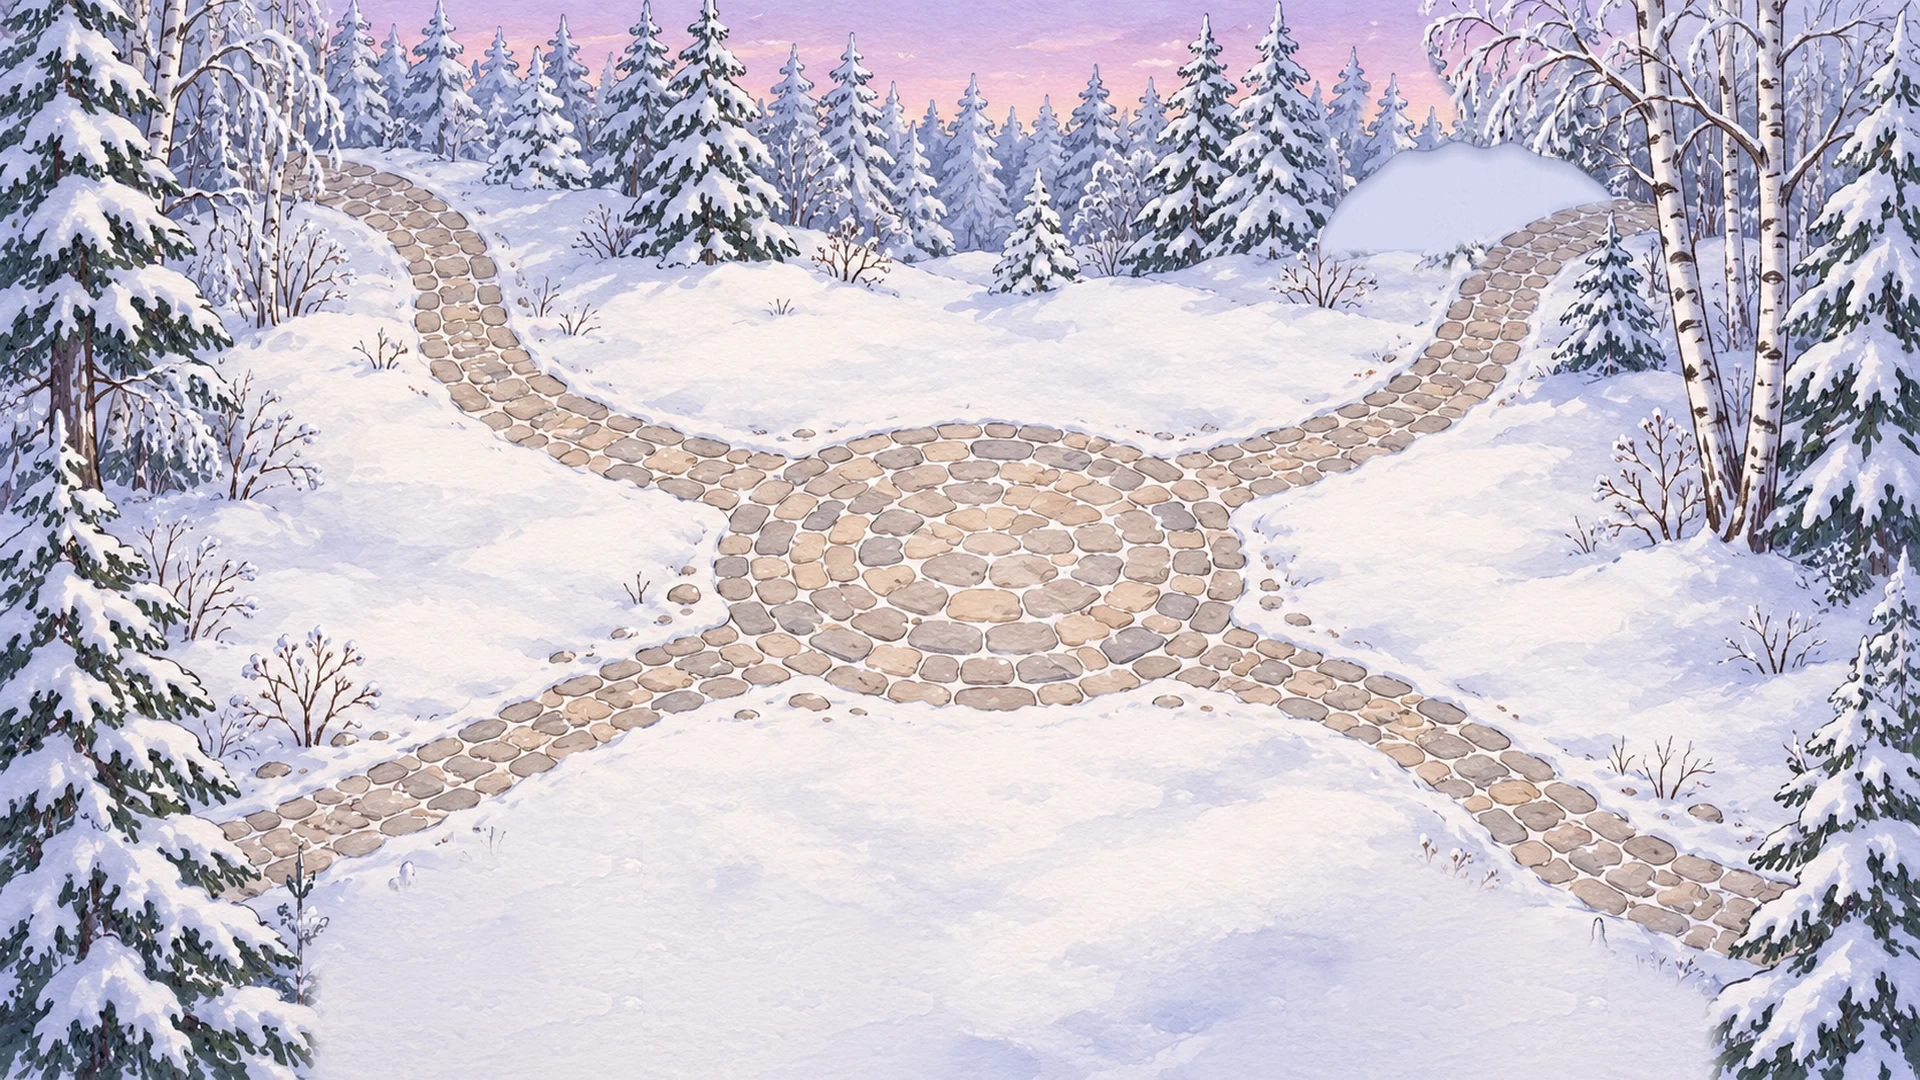
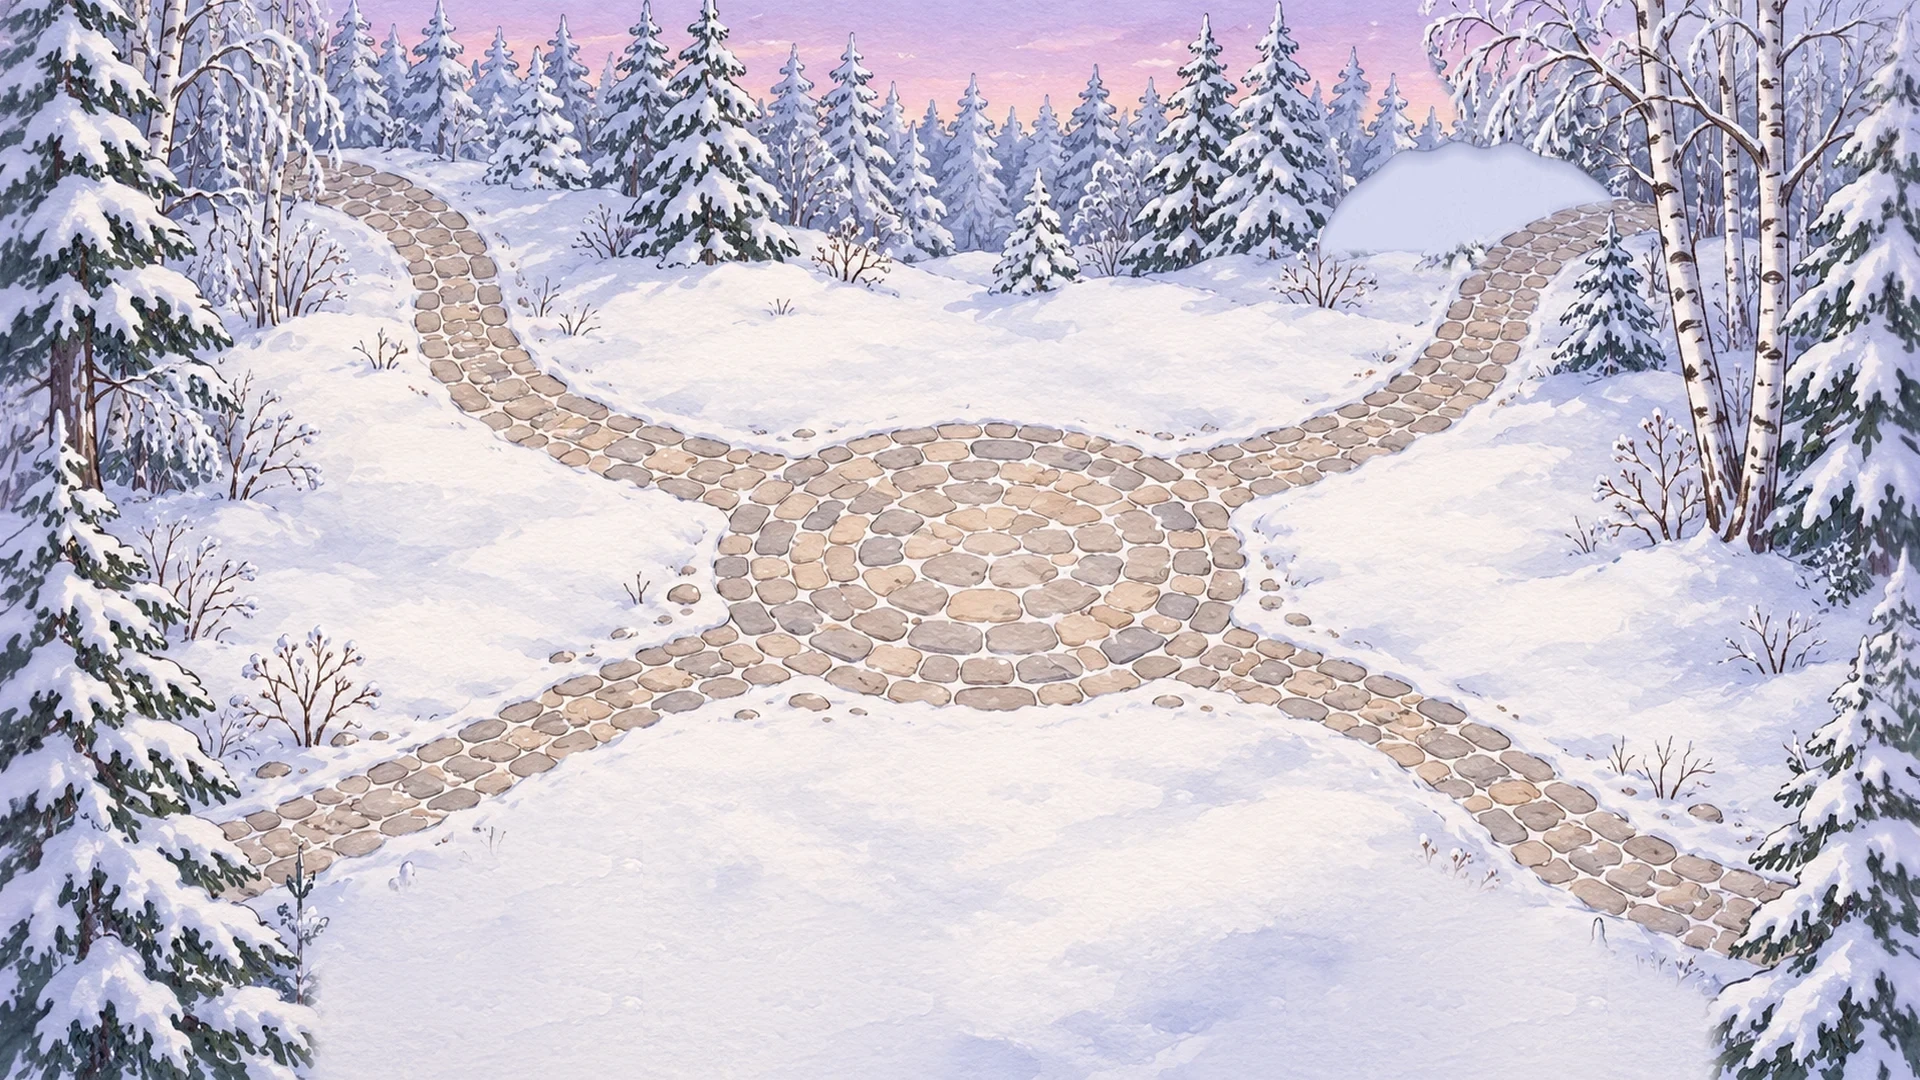
Platus ekranas: šonuose tikras miško tęsinys vietoj veidrodžio
fonas-platus.webp (2560x1080): šonai iš Gemini pratęsto fono, vidurys originalas, siūlė sulieta 70 px.
viewport-fit=cover, kad telefone būtų piešiama ir po kameros išpjova.

Claude-Session: https://claude.ai/code/session_014kT4fd7iA31LYgfUqu9PPw

diff --git a/adventokalendorius/index.html b/adventokalendorius/index.html
@@ -2,7 +2,7 @@
 <html lang="lt">
 <head>
 <meta charset="utf-8">
-<meta name="viewport" content="width=device-width, initial-scale=1, maximum-scale=1, user-scalable=no">
+<meta name="viewport" content="width=device-width, initial-scale=1, maximum-scale=1, user-scalable=no, viewport-fit=cover">
 <title>Balto katino žiemos pasaka</title>
 <link rel="icon" type="image/png" sizes="32x32" href="assets/img/favicon-32.png">
 <link rel="apple-touch-icon" href="assets/img/apple-touch-icon.png">
@@ -11,10 +11,10 @@
 <meta name="mobile-web-app-capable" content="yes">
 <link rel="preconnect" href="https://fonts.googleapis.com">
 <link rel="stylesheet" href="https://fonts.googleapis.com/css2?family=Mountains+of+Christmas:wght@700&display=swap">
-<link rel="stylesheet" href="styles.css?v=1126a">
+<link rel="stylesheet" href="styles.css?v=1126b">
 </head>
 <body>
-<div id="ext"><div class="l"></div><div class="r"></div></div>
+<div id="ext"><div class="w"></div></div>
 <div id="stage">
   <div id="bg"></div>
   <div id="world"></div>
@@ -37,7 +37,7 @@
   </div>
 </div>
 <div id="rotate"><span>📱↻</span>Pasukite telefoną gulsčiai</div>
-<script src="content.js?v=1126a"></script>
-<script src="app.js?v=1126a"></script>
+<script src="content.js?v=1126b"></script>
+<script src="app.js?v=1126b"></script>
 </body>
 </html>

diff --git a/adventokalendorius/app.js b/adventokalendorius/app.js
@@ -19,13 +19,11 @@
     stage.style.left = ((v ? v.pageLeft : 0) + w / 2) + "px";
     stage.style.top = ((v ? v.pageTop : 0) + h / 2) + "px";
     stage.style.transform = `translate(-50%, -50%) scale(${s})`;
-    // Platesniame ekrane (telefonas) šonuose rodomas veidrodžiu atspindėtas fonas, kad neliktų juostų
+    // Platesniame ekrane (telefonas) šonuose rodomas platus fonas (miškas tęsiasi už scenos kraštų), kad neliktų juostų
     const ext = $("ext"), wide = w / h > W / H + 0.01;
     document.body.classList.toggle("wide", wide);
     if (wide) {
       ext.style.left = stage.style.left; ext.style.top = stage.style.top; ext.style.transform = stage.style.transform;
-      const bgi = $("bg").style.backgroundImage;
-      if (bgi) ext.querySelectorAll("div").forEach((d) => { d.style.backgroundImage = bgi; });
     }
   }
   addEventListener("resize", fit);
@@ -275,7 +273,6 @@
 
   function buildWorld() {
     if (IMG.fonas) $("bg").style.backgroundImage = `url("${IMG.fonas}")`; else $("bg").innerHTML = phBackground();
-    fit();   // šoniniams atspindžiams reikia jau įkelto fono
 
     const tree = obj("tree", 978, 606, IMG.eglute);
     [[50, 30], [35, 48], [64, 52], [28, 68], [50, 72], [72, 70], [20, 86], [42, 88], [62, 86], [80, 88]].forEach(([l, t], i) => {

diff --git a/adventokalendorius/styles.css b/adventokalendorius/styles.css
@@ -282,12 +282,11 @@ html, body {
 }
 
 
-/* Platus ekranas (telefonas gulsčiai): šonuose veidrodinis fonas, vinjetė tik viršuje ir apačioje, kad nesimatytų siūlės */
-#ext { display: none; position: absolute; width: 5760px; height: 1080px; transform-origin: center; pointer-events: none; transition: opacity .3s; }
+/* Platus ekranas (telefonas gulsčiai): po scena platus fonas 2560x1080 (miškas tęsiasi į šonus), vinjetė tik viršuje ir apačioje */
+#ext { display: none; position: absolute; width: 2560px; height: 1080px; transform-origin: center; pointer-events: none; transition: opacity .3s; }
 .wide #ext { display: block; }
-#ext .l, #ext .r { position: absolute; top: 0; width: 1920px; height: 1080px; background-size: 100% 100%; transform: scaleX(-1); }
-#ext .l { left: 0; } #ext .r { left: 3840px; }
-#ext .l::after, #ext .r::after, .wide #stage::after {
+#ext .w { position: absolute; inset: 0; background: url("assets/img/fonas-platus.webp") center / 100% 100%; }
+#ext .w::after, .wide #stage::after {
   content: ""; position: absolute; inset: 0; pointer-events: none;
   background: linear-gradient(to bottom, rgba(40,45,95,.3) 0%, rgba(40,45,95,0) 22%, rgba(40,45,95,0) 72%, rgba(40,45,95,.32) 100%);
 }
